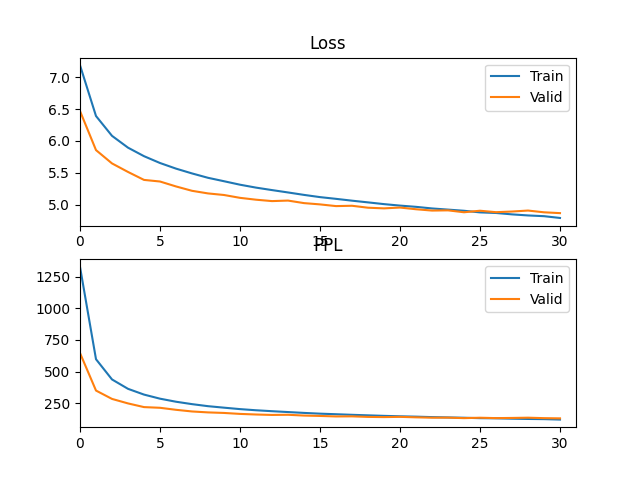
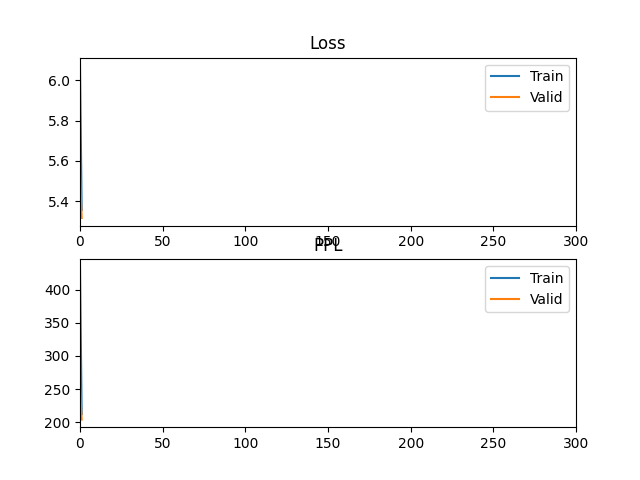
adding dataloader and shuffle to the train set

diff --git a/main.py b/main.py
@@ -66,6 +66,9 @@ def main():
     valid_set = LanguageModelDataset(X_valid, y_valid)
     # test_set = LanguageModelDataset(X_test, y_test)
 
+    train_loader = DataLoader(train_set, batch_size=config.batch_size, shuffle=True)
+    valid_loader = DataLoader(train_set, batch_size=config.batch_size, shuffle=False)
+
     model = LanguageModel(vocab_size, embedding_dim, hidden_dim, num_layers, 0.4, 0.25, 0.4, 0.1,
                           pretrained=embedding_pretrained, tied=tie_weights).to(device)
 
@@ -88,10 +91,10 @@ def main():
     for epoch in range(num_epochs):
 
         # Train
-        model, loss_train, metric_train = train_one_epoch(model, train_set, loss_fn, optimizer, metric, epoch+1)
+        model, loss_train, metric_train = train_one_epoch(model, train_loader, loss_fn, optimizer, metric, epoch+1)
 
         # Validation
-        loss_valid, metric_valid = evaluate(model, valid_set, loss_fn, metric)
+        loss_valid, metric_valid = evaluate(model, valid_loader, loss_fn, metric)
 
         loss_train_hist.append(loss_train)
         loss_valid_hist.append(loss_valid)

diff --git a/dataset.py b/dataset.py
@@ -18,8 +18,8 @@ def data_process(tokenizer, vocab, raw_text_iter, batch_size, bptt, step):
     inputs = inputs.view(batch_size, seq_len).t().contiguous()  # why t and conti...??
     targets = targets.view(batch_size, seq_len).t().contiguous()  # why t and conti...??
     # batchify the data & target
-    inputs = inputs.unfold(dimension=0, size=bptt, step=step)
-    targets = targets.unfold(dimension=0, size=bptt, step=step)
+    inputs = inputs.unfold(dimension=0, size=bptt, step=step).reshape(-1, bptt)
+    targets = targets.unfold(dimension=0, size=bptt, step=step).reshape(-1, bptt)
     return inputs, targets
 
 
